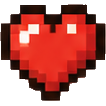
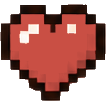
Replace drink status with food and harmonize palette

diff --git a/preview/styles.css b/preview/styles.css
@@ -284,7 +284,7 @@ body { height: auto; min-height: 100%; overflow: visible; padding: 12px 0; }
 .character-hud-stats > div { flex:1; min-height:0; display:flex; align-items:center; gap:3%; }
 .stat-icon { display:block; height:90%; width:auto; max-width:16%; min-height:0; object-fit:contain; image-rendering:pixelated; flex:none; }
 .stat-bar { flex:1; height:72%; min-width:0; border:.2cqw solid #4a2619; border-radius:.24cqw; box-shadow:inset 0 0 0 .16cqw #f2c987, inset 0 -.28cqw 0 #0004; background:var(--bar); }
-.stat-bar.health { --bar:#e7281c; }.stat-bar.stamina { --bar:#ffbb00; }.stat-bar.water { --bar:#138cea; }
+.stat-bar.health { --bar:#c94e43; }.stat-bar.stamina { --bar:#e1a52e; }.stat-bar.food { --bar:#6d9134; }
 .clock-hud { position:absolute; z-index:3; top:2%; right:3%; width:auto; height:10.5%; display:flex; align-items:flex-end; pointer-events:none; color:#342b1e; font-family:HudPixel,monospace; }
 .clock-readouts { width:8.4cqw; flex:none; height:calc(85% - 1.4px); display:flex; flex-direction:column; min-width:0; background:#f5e1b0ef; border:2px solid #815a2e; border-radius:5px 0 0 5px; box-shadow:inset 0 0 0 1px #e8c890; }
 .hud-panel { flex:1; min-height:0; display:flex; align-items:center; gap:.35cqw; padding:2% .35cqw; font-size:1.1cqw; }

diff --git a/preview/index.html b/preview/index.html
@@ -32,7 +32,7 @@
           <div class="character-hud-stats character-hud-vitals" role="group" aria-label="Status karakter sementara">
             <div role="img" aria-label="Health: 100 dari 100, nilai sementara"><img class="stat-icon" src="assets/hud/status-health.png" alt=""><span class="stat-bar health" aria-hidden="true"></span></div>
             <div role="img" aria-label="Stamina: 100 dari 100, nilai sementara"><img class="stat-icon" src="assets/hud/status-stamina.png" alt=""><span class="stat-bar stamina" aria-hidden="true"></span></div>
-            <div role="img" aria-label="Air: 100 dari 100, nilai sementara"><img class="stat-icon" src="assets/hud/status-water.png" alt=""><span class="stat-bar water" aria-hidden="true"></span></div>
+            <div role="img" aria-label="Makanan: 100 dari 100, nilai sementara"><img class="stat-icon" src="assets/hud/status-food.png" alt=""><span class="stat-bar food" aria-hidden="true"></span></div>
           </div>
         </section>
         <section class="clock-hud" aria-label="Waktu, musim dan baterai">

diff --git a/tools/test_preview_hud.js b/tools/test_preview_hud.js
@@ -27,7 +27,8 @@ assert.throws(()=>season.classify(rainfall(0),new Date('2026-12-01T12:00:00Z')))
  for(const img of d.querySelectorAll('.character-hud img, .home-dock img'))assert(fs.existsSync(path.join(root,img.getAttribute('src').split('?')[0])));
  assert.equal(d.querySelectorAll('.character-hud-stats > div').length,3);
  assert.equal(d.querySelectorAll('.character-hud-stats .stat-bar').length,3);
- assert.equal(d.querySelector('.character-hud-stats .food'),null);
+ assert(d.querySelector('.character-hud-stats .food'));
+ assert.equal(d.querySelector('.character-hud-stats .water'),null);
  assert.equal(d.querySelectorAll('.home-dock button').length,11);
  assert.equal(d.querySelector('.dock-tab.selected').getAttribute('aria-label'),'Tools');assert.equal(d.querySelector('.dock-tab.selected').textContent,'Tools');assert.equal(d.querySelector('.dock-tab.selected img'),null);
  assert(!d.querySelector('[data-dock="close"]'),'no close icon in dock');

diff --git a/tools/build_status_bar_icons.py b/tools/build_status_bar_icons.py
@@ -2,10 +2,11 @@
 """Extract the three selected status icons, keeping only the main opaque shape."""
 from pathlib import Path
 from collections import deque
+import colorsys
 from PIL import Image
 root=Path(__file__).resolve().parents[1]
 source=Image.open(root/'preview/assets/character-redraw/status-bars-redesign-concept.png').convert('RGBA')
-for name,top,bottom in [('health',380,510),('stamina',510,630),('water',750,870)]:
+for name,top,bottom in [('health',380,510),('stamina',510,630),('food',630,750),('water',750,870)]:
     img=source.crop((320,top,450,bottom))
     w,h=img.size
     # The generated artwork has faint stray pixels; retain the largest foreground component.
@@ -19,7 +20,18 @@ for name,top,bottom in [('health',380,510),('stamina',510,630),('water',750,870)
                 if n in mask: mask.remove(n);q.append(n);component.append(n)
         components.append(component)
     keep=set(max(components,key=len)); out=Image.new('RGBA',img.size)
-    for x,y in keep: out.putpixel((x,y),px[x,y])
+    for x,y in keep:
+        r,g,b,alpha=px[x,y]
+        hue,sat,val=colorsys.rgb_to_hsv(r/255,g/255,b/255)
+        # Tint the colored body toward the established HUD palette, while
+        # preserving the dark outlines and pale highlights from the concept.
+        targets={'health':('#c94e43'), 'stamina':('#e1a52e'), 'food':('#6d9134')}
+        if name in targets and sat > .45 and val > .38:
+            target=targets[name].lstrip('#')
+            rgb=tuple(int(target[i:i+2],16)/255 for i in (0,2,4))
+            th,ts,tv=colorsys.rgb_to_hsv(*rgb)
+            r,g,b=(round(v*255) for v in colorsys.hsv_to_rgb(th,min(sat,ts),min(val,tv)))
+        out.putpixel((x,y),(r,g,b,alpha))
     out=out.crop(out.getbbox()); side=max(out.size); canvas=Image.new('RGBA',(side,side));canvas.alpha_composite(out,((side-out.width)//2,(side-out.height)//2))
     for path in [root/f'preview/assets/hud/status-{name}.png',root/f'app/src/main/res/drawable-nodpi/status_icon_{name}.png']:
         canvas.save(path)

diff --git a/tools/test_android_character_hud.py b/tools/test_android_character_hud.py
@@ -14,14 +14,15 @@ assert portrait_view.get(a+'background') == '@drawable/status_frame'
 assert hud.get(a+'layout_height') == portrait_view.get(a+'layout_height') == '48dp'
 assert stats.get(a+'layout_height') == 'match_parent'
 assert stats.get(a+'background') is None
-assert [row.get(a+'contentDescription').split(':')[0] for row in stats] == ['Health','Stamina','Air']
+assert [row.get(a+'contentDescription').split(':')[0] for row in stats] == ['Health','Stamina','Makanan']
 assert all(row.get(a+'layout_width') == 'match_parent' and row.get(a+'layout_weight') == '1' and '100 dari 100' in row.get(a+'contentDescription') for row in stats)
-for row,name in zip(stats,['health','stamina','water']):
+for row,name in zip(stats,['health','stamina','food']):
  icon=row.find('ImageView'); bar=row.find('View')
  assert icon.get(a+'src')=='@drawable/status_icon_'+name
  assert bar.get(a+'background')=='@drawable/status_bar_'+name
  assert (res/'drawable-nodpi'/('status_icon_'+name+'.png')).read_bytes() == (root/'preview/assets/hud'/('status-'+name+'.png')).read_bytes()
- ET.parse(res/'drawable'/('status_bar_'+name+'.xml'))
+ layers=ET.parse(res/'drawable'/('status_bar_'+name+'.xml')).getroot()
+ assert list(layers)[2].find('shape/solid').get(a+'color') == {'health':'#C94E43','stamina':'#E1A52E','food':'#6D9134'}[name]
 import struct
 portrait=(res/'drawable-nodpi/character_hud_current.png').read_bytes()
 assert portrait==(root/'preview/assets/character-hud-current.png').read_bytes()
